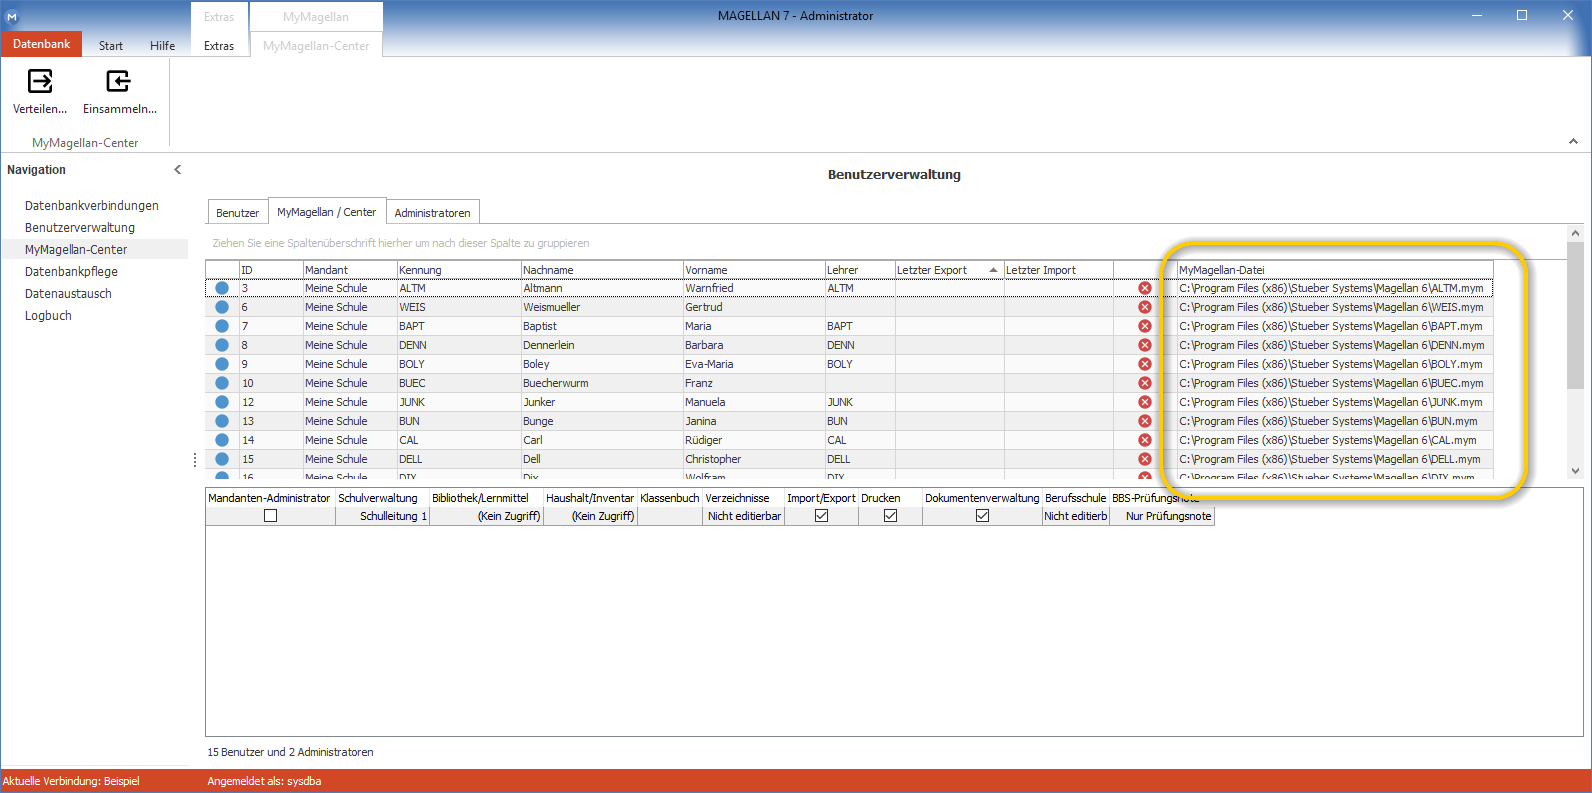
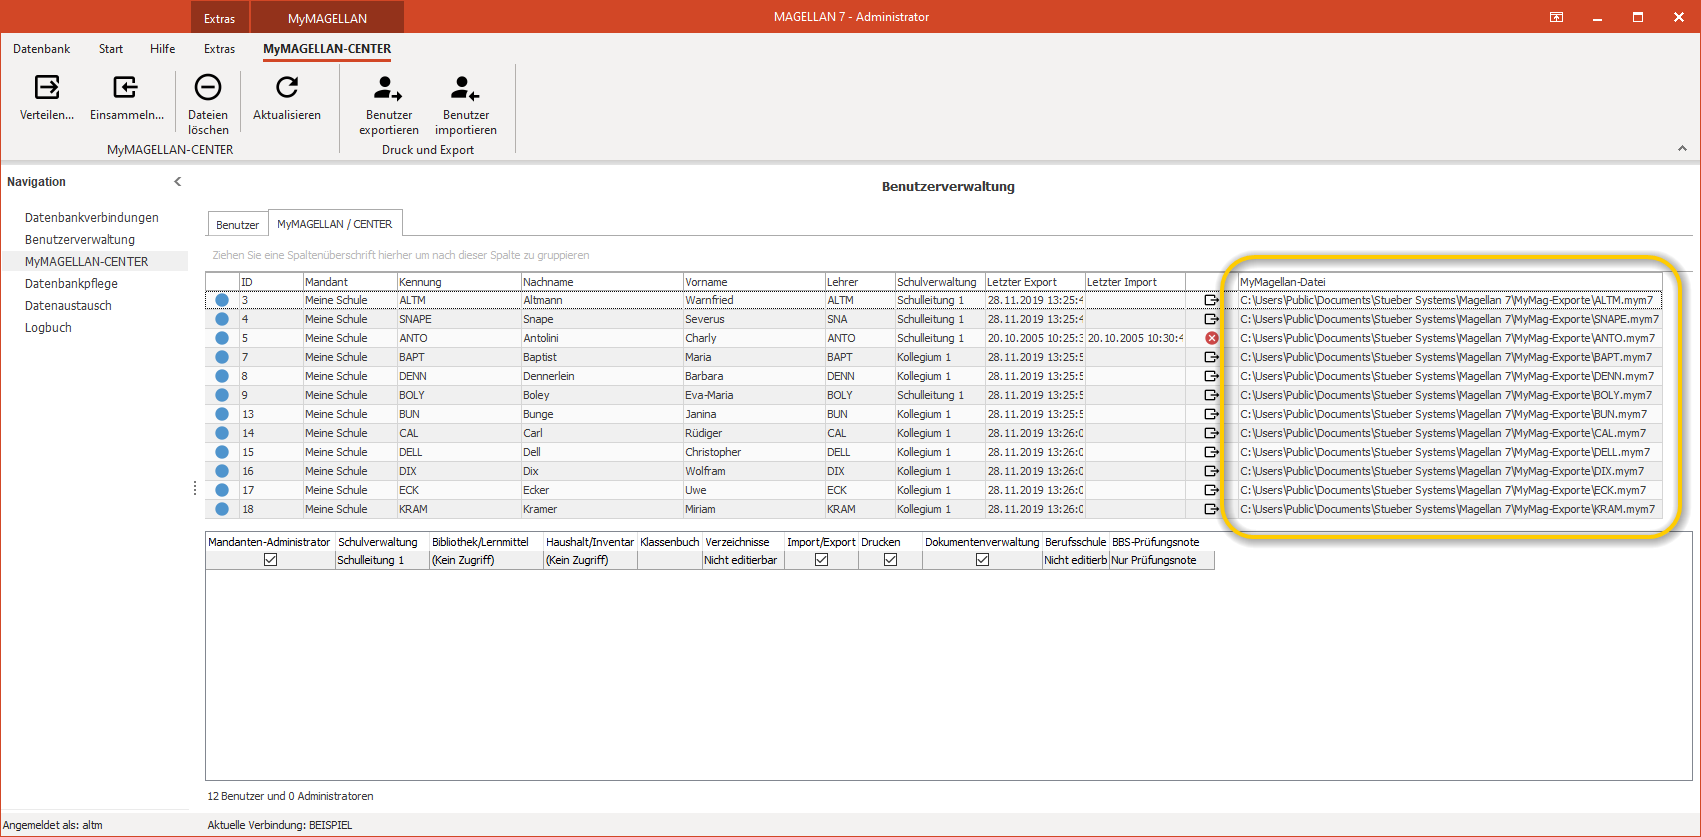
no message

Changed region(s): [[0.1231, 0.2421, 1.0, 0.9382], [0.0, 0.0, 1.0, 0.4237], [0.0, 0.9382, 1.0, 1.0]]

diff --git a/docs/mymagellancenter/verteilen.md b/docs/mymagellancenter/verteilen.md
@@ -10,6 +10,21 @@ Nr.|Voraussetzung
 2. | Eingabe der Fachdaten der Schüler
 3. | Zuordnung der MyMAGELLAN-Teilnehmer zu den Schülern in MAGELLAN als Fachlehrer, Klassenlehrer und/oder Tutor
 
+### Wer darf die Einstellungen vornehmen
+
+Die Karte MyMAGELLAN CENTER kann vom `sysdba` oder von einem Nutzer mit dem Sonderrecht `Mandantenadministrator` bedient werden.
+
+Der Mandantenadministrator darf Folgendes für:
+
+- Einstellen, wer MyMAGELLAN Teilnehmer sein darf oder nicht (auch per Sammelaktion)
+- Passworte vergeben, die für das Öffnen der MyMAGELLAN Dateien verwendet werden (auch per Sammelaktion)
+- Den Pfad editieren unter dem die mym-Datei abgelegt werden soll (auch per Sammelaktion)
+- Daten verteilen
+- Dateien löschen
+- Daten einsammeln
+
+Der Mandantenadministrator darf keine neue Nutzer anlegen, Rechte für die Schulverwaltung gewähren oder ändern.
+
 ### Einstellungen im MAGELLAN ADMINISTRATOR
 
 Jeder MyMAGELLAN-Teilnehmer muss als Benutzer in der Benutzerverwaltung (MAGELLAN ADMINISTRATOR > Benutzerverwaltung) angelegt sein. Dabei muss er folgende Bedingungen erfüllen:
@@ -18,21 +33,20 @@ Jeder MyMAGELLAN-Teilnehmer muss als Benutzer in der Benutzerverwaltung (MAGELLA
 
 Der Benutzer muss unter „Schulverwaltung“ der Benutzergruppe „Schulleitung 1“, „Schulleitung 2“, „Sekretariat 1“, „Kollegium 1“, „Kollegium 2“, „Kollegium 3“ oder „Kollegium 4“ zugeordnet sein.
 
-![Weisen Sie dem Benutzer ein Recht zu](/assets/images/myMAGELLAN/02.png)
+![Weisen Sie dem Benutzer ein Recht zu](/assets/images/mymagellan/02.png)
 
 ### 2. Teilnehmer von MyMAGELLAN
 
-Der Benutzer muss unter „MyMAGELLAN“ den Status „Teilnehmer von MyMAGELLAN“ besitzen. Anderenfalls wird der Benutzer nicht auf der Karte `
-MyMAGELLAN CENTER` angezeigt.
+Der Benutzer muss unter „MyMAGELLAN“ den Status „Teilnehmer von MyMAGELLAN“ besitzen. Anderenfalls wird der Benutzer nicht auf der Karte `MyMAGELLAN CENTER` angezeigt.
 
-![Teilnehmer von MyMAGELLAN](/assets/images/myMAGELLAN/03.png)
+![Teilnehmer von MyMAGELLAN](/assets/images/mymagellan/03.png)
 
 ### 3. Speicherort für die Datei vorbelegen
 
 Dem Benutzer muss unter „MyMAGELLAN“ eine „MyMAGELLAN-Datei“ (Datei mit der Endung .mym7) zugeordnet werden. Die Datei muss lediglich benannt werden, jedoch nicht schon existieren. Es geht hier darum die Stelle für die spätere Sammelerstellung der Lehrerdateien vorzubelegen.
 Bitte achten Sie darauf, dass Sie den kompletten Pfad eintragen. Wenn Sie lediglich eine Dateibezeichnung eintragen, führt dies später zu einer Fehlermeldung, da der Speicherort nicht gefunden wird. Nur Benutzer mit diesen Rechten werden im MyMAGELLAN CENTER angezeigt.
 
-![Speicherort vorbelegen](/assets/images/myMAGELLAN/04.png)
+![Speicherort vorbelegen](/assets/images/mymagellan/04.png)
 
 !!! info "Hinweis"
 
@@ -40,17 +54,49 @@ Bitte achten Sie darauf, dass Sie den kompletten Pfad eintragen. Wenn Sie ledigl
 
 ### Dateipasswort
 
-Die Datei kann mit einem Passwort belegt werden, das beim Öffnen der Datei eingegeben werden muss. Hierfür gibt es drei Möglichkeiten.
+Die Datei kann mit einem Passwort belegt werden, das beim Öffnen der Datei eingegeben werden muss. Hierfür gibt es vier Möglichkeiten.
 
 1. Sie aktivieren den Haken auf der Unterkarte `Rechte`, damit wird das MAGELLAN-Passwort des Benutzers auch als Passwort für die MyMAGELLAN-Datei verwendet. 
 
-![MAGELLAN Passwort als MyMAGELLAN-Passwort](/assets/images/myMAGELLAN/05.png)
+![MAGELLAN Passwort als MyMAGELLAN-Passwort](/assets/images/mymagellan/05.png)
 
 2. Sie vergeben ein gesondertes Passwort für die MyMAGELLAN-Datei auf der Unterkarte `MyMAGELLAN`.
 
-![gesondertes MyMAGELLAN-Passwort](/assets/images/myMAGELLAN/06.png)
+![gesondertes MyMAGELLAN-Passwort](/assets/images/mymagellan/06.png)
 
 3. Sie vergeben ein Passwort für mehrere Dateien, [diese Möglichkeit wird später beim Erstellen der Dateien angeboten](https://doc.magellan7.stueber.de/schulverwaltung/admin/myMAGELLAN-center/#karte-sicherheit-festlegen).
+4. Sie verwenden den nachstehend beschriebenen Export und Import von Benutzereinstellungen um somit mehren Benutzern gleichzeitig ein Dateipasswort zuzuweisen.
+
+### Benutzereinstellungen exportieren und importieren
+
+Für bereits angelegte Benutzer können die Passworte für die MyMAGELLAN-Datei und den Ablagepfad gesammelt zugewiesen werden.
+
+#### Export
+
+Starten Sie den Assistenten unter `MAGELLAN ADMINISTRATOR > MYMAGELLAN CENTER > Benutzer exportieren` und geben eine Pfad und einen Dateinamen ein.
+
+![Benutzerdaten exportieren](/assets/images/mymagellan/24.png)
+
+Die entstandene CSV-Datei können Sie beispielsweise mit Excel öffnen.
+
+![Export in Excel öffnen](/assets/images/mymagellan/25.png)
+
+!!! info "Hinweis"
+
+	Ändern Sie bitte nicht den Aufbau der Datei, passen Sie nur die Werte an, die Kennung kann nicht angepasst werden.
+
+Spaltenkopf| Mögliche Werte
+--|--
+**Kennung**| Keine Änderung möglich
+**Passwort**|Tragen Sie hier im Klartext das Passwort ein, es wird chiffriert in der MAGELLAM-Datenbank gespeichert. <br/>Ein bereits erfasstes Passwort wird nicht in die Datei ausgespielt.<br/> Ein leeres Feld wird beim Import kein bestehendes Passwort ändern.
+**MyMagellan-Teilnehmer**| Mögliche Werte sind  `Teilnehmer` oder `(Kein Teilnehmer)`. <br/>Das Feld darf nicht leer sein.
+**MyMagellan-Datei**| Tragen Sie hier bitte einen existierenden Pfad und den zukünftigen Dateinamen plus Dateiendung ein. <br/>Beispiel: `C:\Users\Public\Documents\Stueber Systems\Magellan 7\MyMag-Exporte\SNAPE.mym7`
+
+#### Import
+
+Speichern Sie Ihre angepasste Datei und rufen Sie den Import über die Schaltfläche unter `MAGELLAN ADMINISTRATOR > MYMAGELLAN CENTER > Benutzer exportieren` auf.
+
+![Benutzereinstellungen importieren](/assets/images/mymagellan/26.png)
 
 ### Einstellungen in MAGELLAN
 
@@ -63,6 +109,7 @@ Beim Erstellen der MyMAGELLAN-Dateien werden auch Inhalte aus den Schlüsselverz
 !!! info "Hinweis"
 
 	In die MyMAGELLAN-Dateien werden ausschließlich aktuelle Verzeichniswerte (Noten, Fachstatus, Unterrichtsarten, Abschlüsse usw.) übergeben. Das bedeutet Verzeichniswerte,  deren `Bis-Datum` im MAGELLAN-Verzeichnis (`MAGELLAN > Extras > Schlüsselverzeichnisse`) leer ist oder ein Datum enthält, dass vom Tag der Erstellung aus gesehen in der Zukunft liegt.
+
 ### Zuordnung der MyMAGELLAN-Teilnehmer zu den Schülern
 
 Die Zuordnung der MyMAGELLAN-Teilnehmer zu den Schülern erfolgt über die Aufgaben der Teilnehmer in der Schule:
@@ -74,17 +121,17 @@ Rolle|Bedeutung
 **Tutor** | Der Lehrer ist bei mindestens einem Schüler als Tutor zugeordnet. Dies ist beispielsweise in der gymnasialen Oberstufe der Fall, wenn der Tutor den Stammkursleiter darstellt. Die Datenmenge, die für den Tutor übertragen wird ist identisch mit der des Klassenleiters: also alle Fachzeilen der Schüler und auch Zeugnisbemerkungen, aber eben nicht für die Schüler einer ganzen Klasse, sondern für alle Schüler, denen er als Tutor zugewiesen wurde.
 
 Zuordnung Klassenleiter unter `Klasse > Zeiträume > Zeitraum > Feld Klassenleiter1`: 
-![Zuordnung des Klassenleiters 1 bei einer Klasse auf der Registerkarte „Zeiträume“. Die Zuordnung erfolgt pro Zeitraum.](/assets/images/myMAGELLAN/07.png)
+![Zuordnung des Klassenleiters 1 bei einer Klasse auf der Registerkarte „Zeiträume“. Die Zuordnung erfolgt pro Zeitraum.](/assets/images/mymagellan/07.png)
 
 Zuordnung Fachlehrer unter `Schüler > Zeugnis > Fächer > Spalte Lehrer`. 
 
 Die Zuordnung kann auch per Fachtafel verteilt werden oder durch den Abgleich mit DAVINCI als Resulat der Stundenplanung übernommen werden.
 
-![Zuordnung der Fachlehrer bei einem Schüler in der Spalte „Lehrer“ bei den Fächern.](/assets/images/myMAGELLAN/08.png)
+![Zuordnung der Fachlehrer bei einem Schüler in der Spalte „Lehrer“ bei den Fächern.](/assets/images/mymagellan/08.png)
 
 Zuordnung des Tutors unter `Schüler > Zeugnis > Details > Feld Tutor`. Dieses Feld kann auch per Sammelzuweisung, Aufruf dazu am oberen Ende der Karte, durchgeführt werden.
 
-![Zuordnung des Tutors auf der Registerkarte „Zeugnis > Details“ des Schülers.](/assets/images/myMAGELLAN/09.png)
+![Zuordnung des Tutors auf der Registerkarte „Zeugnis > Details“ des Schülers.](/assets/images/mymagellan/09.png)
 
 Ist ein MyMAGELLAN-Teilnehmer im aktuellen Zeitraum weder Klassenleiter 1, noch Fachlehrer, noch Tutor, wird für ihn keine MyMAGELLAN-Datei durch das MyMAGELLAN CENTER erzeugt.
 
@@ -96,7 +143,7 @@ Sind alle Voraussetzungen für die Erstellung der MyMAGELLAN-Dateien erfüllt, w
 
 	Vor dem eigentlichen Verteilen der MyMAGELLAN-Dateien, sollten Sie nochmals überprüfen, ob für jeden Teilnehmer der Speicherort und der Dateiname für seine MyMAGELLAN-Datei vordefiniert wurde. Wenn dies noch nicht über die Benutzerverwaltung des MAGELLAN ADMINISTRATORs erfolgt ist, können Sie diese Vorgaben auch im MyMAGELLAN CENTER definieren.
 
-![Sind alle Speicherorte vorbelegt?](/assets/images/myMAGELLAN/10.png)
+![Sind alle Speicherorte vorbelegt?](/assets/images/mymagellan/10.png)
 
 So starten Sie die Verteilung der MyMAGELLAN-Dateien:
 
@@ -104,19 +151,19 @@ So starten Sie die Verteilung der MyMAGELLAN-Dateien:
 
 2. Klicken Sie auf die Schaltfläche `Verteilen` im Menüband.
 
-![Dateien verteilen](/assets/images/myMAGELLAN/11.png)
+![Dateien verteilen](/assets/images/mymagellan/11.png)
 
 ### Karte "Zeitraum auswählen"
 
 3. Wählen Sie das Halbjahr für das die Noten eingegeben werden soll und Ihren Mandanten aus!
 
-![Wählen Sie das Halbjahr und den Mandanten aus!](/assets/images/myMAGELLAN/12.png)
+![Wählen Sie das Halbjahr und den Mandanten aus!](/assets/images/mymagellan/12.png)
 
 ### Karte "Klassen auswählen"
 
 4. Wählen Sie aus, ob für alle Klassen die Noten erfasst werden sollen oder nur für einen Teil. Die Standardauswahl ist für alle Schüler aller Klassen.
 
-![Wählen Sie ggfs. die Klassen aus!](/assets/images/myMAGELLAN/13.png)
+![Wählen Sie ggfs. die Klassen aus!](/assets/images/mymagellan/13.png)
 
 ### Karte "Teilnehmer auswählen"
 
@@ -126,7 +173,7 @@ So starten Sie die Verteilung der MyMAGELLAN-Dateien:
 * [Organisation des zeitlichen Ablaufs](https://doc.magellan7.stueber.de/schulverwaltung/admin/myMAGELLAN-center/#organisation-des-zeitlichen-ablaufs)
 * [Mögliche Konflikte](https://doc.magellan7.stueber.de/schulverwaltung/admin/myMAGELLAN-center/#m%C3%B6gliche-konflikte)
 
-![Für welche Rollen soll exportiert werden?](/assets/images/myMAGELLAN/14.png)
+![Für welche Rollen soll exportiert werden?](/assets/images/mymagellan/14.png)
 
 ### Karte "Layout und Rechte auswählen"
 
@@ -135,29 +182,28 @@ So starten Sie die Verteilung der MyMAGELLAN-Dateien:
 Feld|Funktion
 --|--
 **Spalte** | Name der Spalte oder des Feldes in der MAGELLAN-Oberfläche.
-**Spaltenüberschrift** |Wählen Sie eine abweichende Bezeichnung für die Anzeige in MyMAGELLAN.<br/><br/> ![](/assets/images/myMAGELLAN/16.png)
+**Spaltenüberschrift** |Wählen Sie eine abweichende Bezeichnung für die Anzeige in MyMAGELLAN.<br/><br/> ![](/assets/images/mymagellan/16.png)
 **Sichtbar** |Setzen Sie das Häkchen um das Feld in MyMAGELLAN anzuzeigen. 
 **Editierbar** |Setzen Sie das Häkchen zusammen mit dem Häkchen in der Spalte `Sichtbar`, um eine Eingabe zuzulassen. Bei einigen Spalten bietet es sich an, keinen Eintrag zuzulassen, die Spalte aber dennoch zur besseren Sortierbarkeit in der Datei auszugeben, zum Beispiel für die Unterrichtart oder den Fachstatus.
 **Listenspalte** |Diese Option ist fest vorgegeben und soll Ihnen zeigen, welche Einträge später als Liste zur Verfügung stehen (Beispiel Endnote1) und welche als Eingabefelder(Beispiel Versetzungsart oder Abschlussart).
 
-![Layout und Rechte festlegen](/assets/images/myMAGELLAN/15.png)
+![Layout und Rechte festlegen](/assets/images/mymagellan/15.png)
 
 !!! info "Hinweis"
 
 	Wenn Sie mehrere Zeilen markieren, können Sie per Rechtsklick diese in einer Aktion auf `sichtbar/unsichtbar` oder auf `editierbar/nicht` editierbar setzen.
 
-
-![Zeilen markieren und per Rechtsklick Werte für mehrere Zeilen zuweisen.](/assets/images/myMAGELLAN/17.png)
+![Zeilen markieren und per Rechtsklick Werte für mehrere Zeilen zuweisen.](/assets/images/mymagellan/17.png)
 
 Am unteren Rand der Karte `Layout und Rechte festlegen` stellen Sie bitte ein, wie beim späteren Einsammeln der Daten mit den Fehlzeiten verfahren werden soll.
 
-![Einsammeloptionen für Fehlzeiten](/assets/images/myMAGELLAN/18.png)
+![Einsammeloptionen für Fehlzeiten](/assets/images/mymagellan/18.png)
 
 Option|Bedeutung
 --|--
 Fehlstunden/-tage in MAGELLAN beim Einsammeln überschrieben|Die Werte der Felder „Fehlstunden“, „Fehlstunden unentschuldigt“, „Fehltage“ und „Fehltage unentschuldigt“ des Schülers in MAGELLAN werden durch Einlesen einer MyMAGELLAN-Datei, mit Daten zu diesem Schüler überschrieben. Ausnahme: Kein Eintrag oder ein Null in MyMAGELLAN überschreiben keinen Wert in MAGELLAN. Eine Korrektur des verkehrten Wertes aus MAGELLAN ist nur im Schulverwaltungsprogramm selbst möglich.
 Fehlstunden/-tage in MAGELLAN beim Einsammeln addieren|Die Werte der Felder „Fehlstunden“, „Fehlstunden unentschuldigt“, „Fehltage“ und „Fehltage unentschuldigt“ des Schülers in MAGELLAN werden durch Einlesen einer MyMAGELLAN-Datei, mit Daten zu diesem Schüler addiert. Bitte beachten Sie, dass bei dieser Option im Fall eines erneuten Importes der Datei auch die Fehlzeiten erneut addiert werden.<br/><br/>**Wichtig:**<br/>Bitte beachten Sie den Abschnitt [Fehlzeiten](https://doc.magellan7.stueber.de/schulverwaltung/admin/myMAGELLAN-center/#fehlzeiten) und bedenken bitte auch, dass Sie Dateien in denen das Addieren der Fehlzeiten gewählt wurde, nicht mehrfach importieren dürfen.
-Fehlstunden/-tage in MAGELLAN beim Einsammeln nicht aktualisieren| Die Werte der Felder „Fehlstunden“, „Fehlstunden unentschuldigt“, „Fehltage“ und „Fehltage unentschuldigt“ des Schülers in MAGELLAN werden durch Einlesen einer MyMAGELLAN-Datei nicht verändert. 
+Fehlstunden/-tage in MAGELLAN beim Einsammeln nicht aktualisieren| Die Werte der Felder „Fehlstunden“, „Fehlstunden unentschuldigt“, „Fehltage“ und „Fehltage unentschuldigt“ des Schülers in MAGELLAN werden durch Einlesen einer MyMAGELLAN-Datei nicht verändert.
 
 !!! info "Hinweis"
 
@@ -166,13 +212,13 @@ Und: Zeugnisbemerkungen werden nur von Klassenleitern und Tutoren nach MAGELLAN 
 
 ### Karte "Sicherheit festlegen"
 
-Sie haben die Möglichkeit ein teilnehmerindividuelles Passwort in der Benutzerverwaltung im MAGELLAN Administrator zu vergeben, die Schritte dafür beschreiben wir im Abschnitt [Dateipasswort](https://doc.magellan7.stueber.de/schulverwaltung/admin/myMAGELLAN-center/#dateipasswort). Alternativ können Sie ein Passwort für mehrere Dateien vergeben, wenn kein Passwort im Administrator angelegt wurde. Tragen Sie für diese Situation hier ein Kennwort ein und wiederholen es.
+Sie haben die Möglichkeit ein teilnehmer-individuelles Passwort in der Benutzerverwaltung im MAGELLAN Administrator zu vergeben, die Schritte dafür beschreiben wir im Abschnitt [Dateipasswort](https://doc.magellan7.stueber.de/schulverwaltung/admin/myMAGELLAN-center/#dateipasswort). Alternativ können Sie ein Passwort für mehrere Dateien vergeben, wenn kein Passwort im Administrator angelegt wurde. Tragen Sie für diese Situation hier ein Kennwort ein und wiederholen es.
 
 Im Feld `Bemerkung`, dass dem Nutzer der Datei später in der Startansicht gezeigt wird, können Sie beispielsweise einen Hinweis für die Rückgabe hinterlegen.
 
-![Passwort und Bemerkung erfassen](/assets/images/myMAGELLAN/19.png)
+![Passwort und Bemerkung erfassen](/assets/images/mymagellan/19.png)
 
-Wechseln Sie auf `Weiter` und `Fertigstellen`! 
+Wechseln Sie auf `Weiter` und `Fertigstellen`!
 
 ### Karte "MyMAGELLAN-Daten verteilen"
 
@@ -185,11 +231,11 @@ Häufige Gründe fürs nicht Erzeugen einer Datei sind beispielsweise:
 * Lehrer, denen keine Schüler zugeordnet wurden (als Fachlehrer, Tutor oder Klassenleiter)
 * im Zielverzeichnis existiert bereits eine gleichnamige Datei, die nicht überschrieben wird
 
-![Beispiel für Ergebnismeldungen](/assets/images/myMAGELLAN/20.png)
+![Beispiel für Ergebnismeldungen](/assets/images/mymagellan/20.png)
 
 Am gewählten Speicherort werden die Dateien erzeugt.
 
-![Erstellte MyMAGELLAN-Dateien](/assets/images/myMAGELLAN/21.png)
+![Erstellte MyMAGELLAN-Dateien](/assets/images/mymagellan/21.png)
 
 !!! info "Hinweis"
 

diff --git a/docs/changelog-next.md b/docs/changelog-next.md
@@ -97,3 +97,16 @@ Eine Anleitung unserer Berichte finden Sie im Modul MAGELLAN BERICHTE, das Besta
 * FIX: BER-AbdGy (abi_4b_berechnungsbogen_abendgym (03.12.).rpt
 * FIX: SAC-BG-HJZ (E.01.03).rpt
 * FIX: SAC-BG-JZ (E.01.02).rpt
+* FIX: MVP-GY-ABI (2010).rpt
+* FIX: MVP-GY-ÜZ (Seite 2 mit Noten).rpt
+* FIX: MVP-GY-JZ (Wahlpflicht 1. + 2. HJ).rpt
+* FIX: MVP-GY-HJZ (Seite 2 mit Noten).rpt
+* FIX: MVP-GY-JZ (Seite 1 Lernentwicklungsbericht).rpt
+* FIX: MVP-GY-HJZ.rpt
+* FIX: MVP-GY-JZ (Seite 2 mit Noten).rpt
+* FIX: MVP-GY-FHReife (Bescheinigung 2006).rpt
+* FIX: MVP-GY-AZ (Wahlpflicht allgemein).rpt
+* FIX: MVP-GY-AZ (Wahlpflicht 1. + 2. HJ).rpt
+* FIX: MVP-GY-AS.rpt
+* FIX: MVP-GY-AS (Jahrgangsstufe 7-10).rpt
+* FIX: MVP-GY-ABI.rpt
